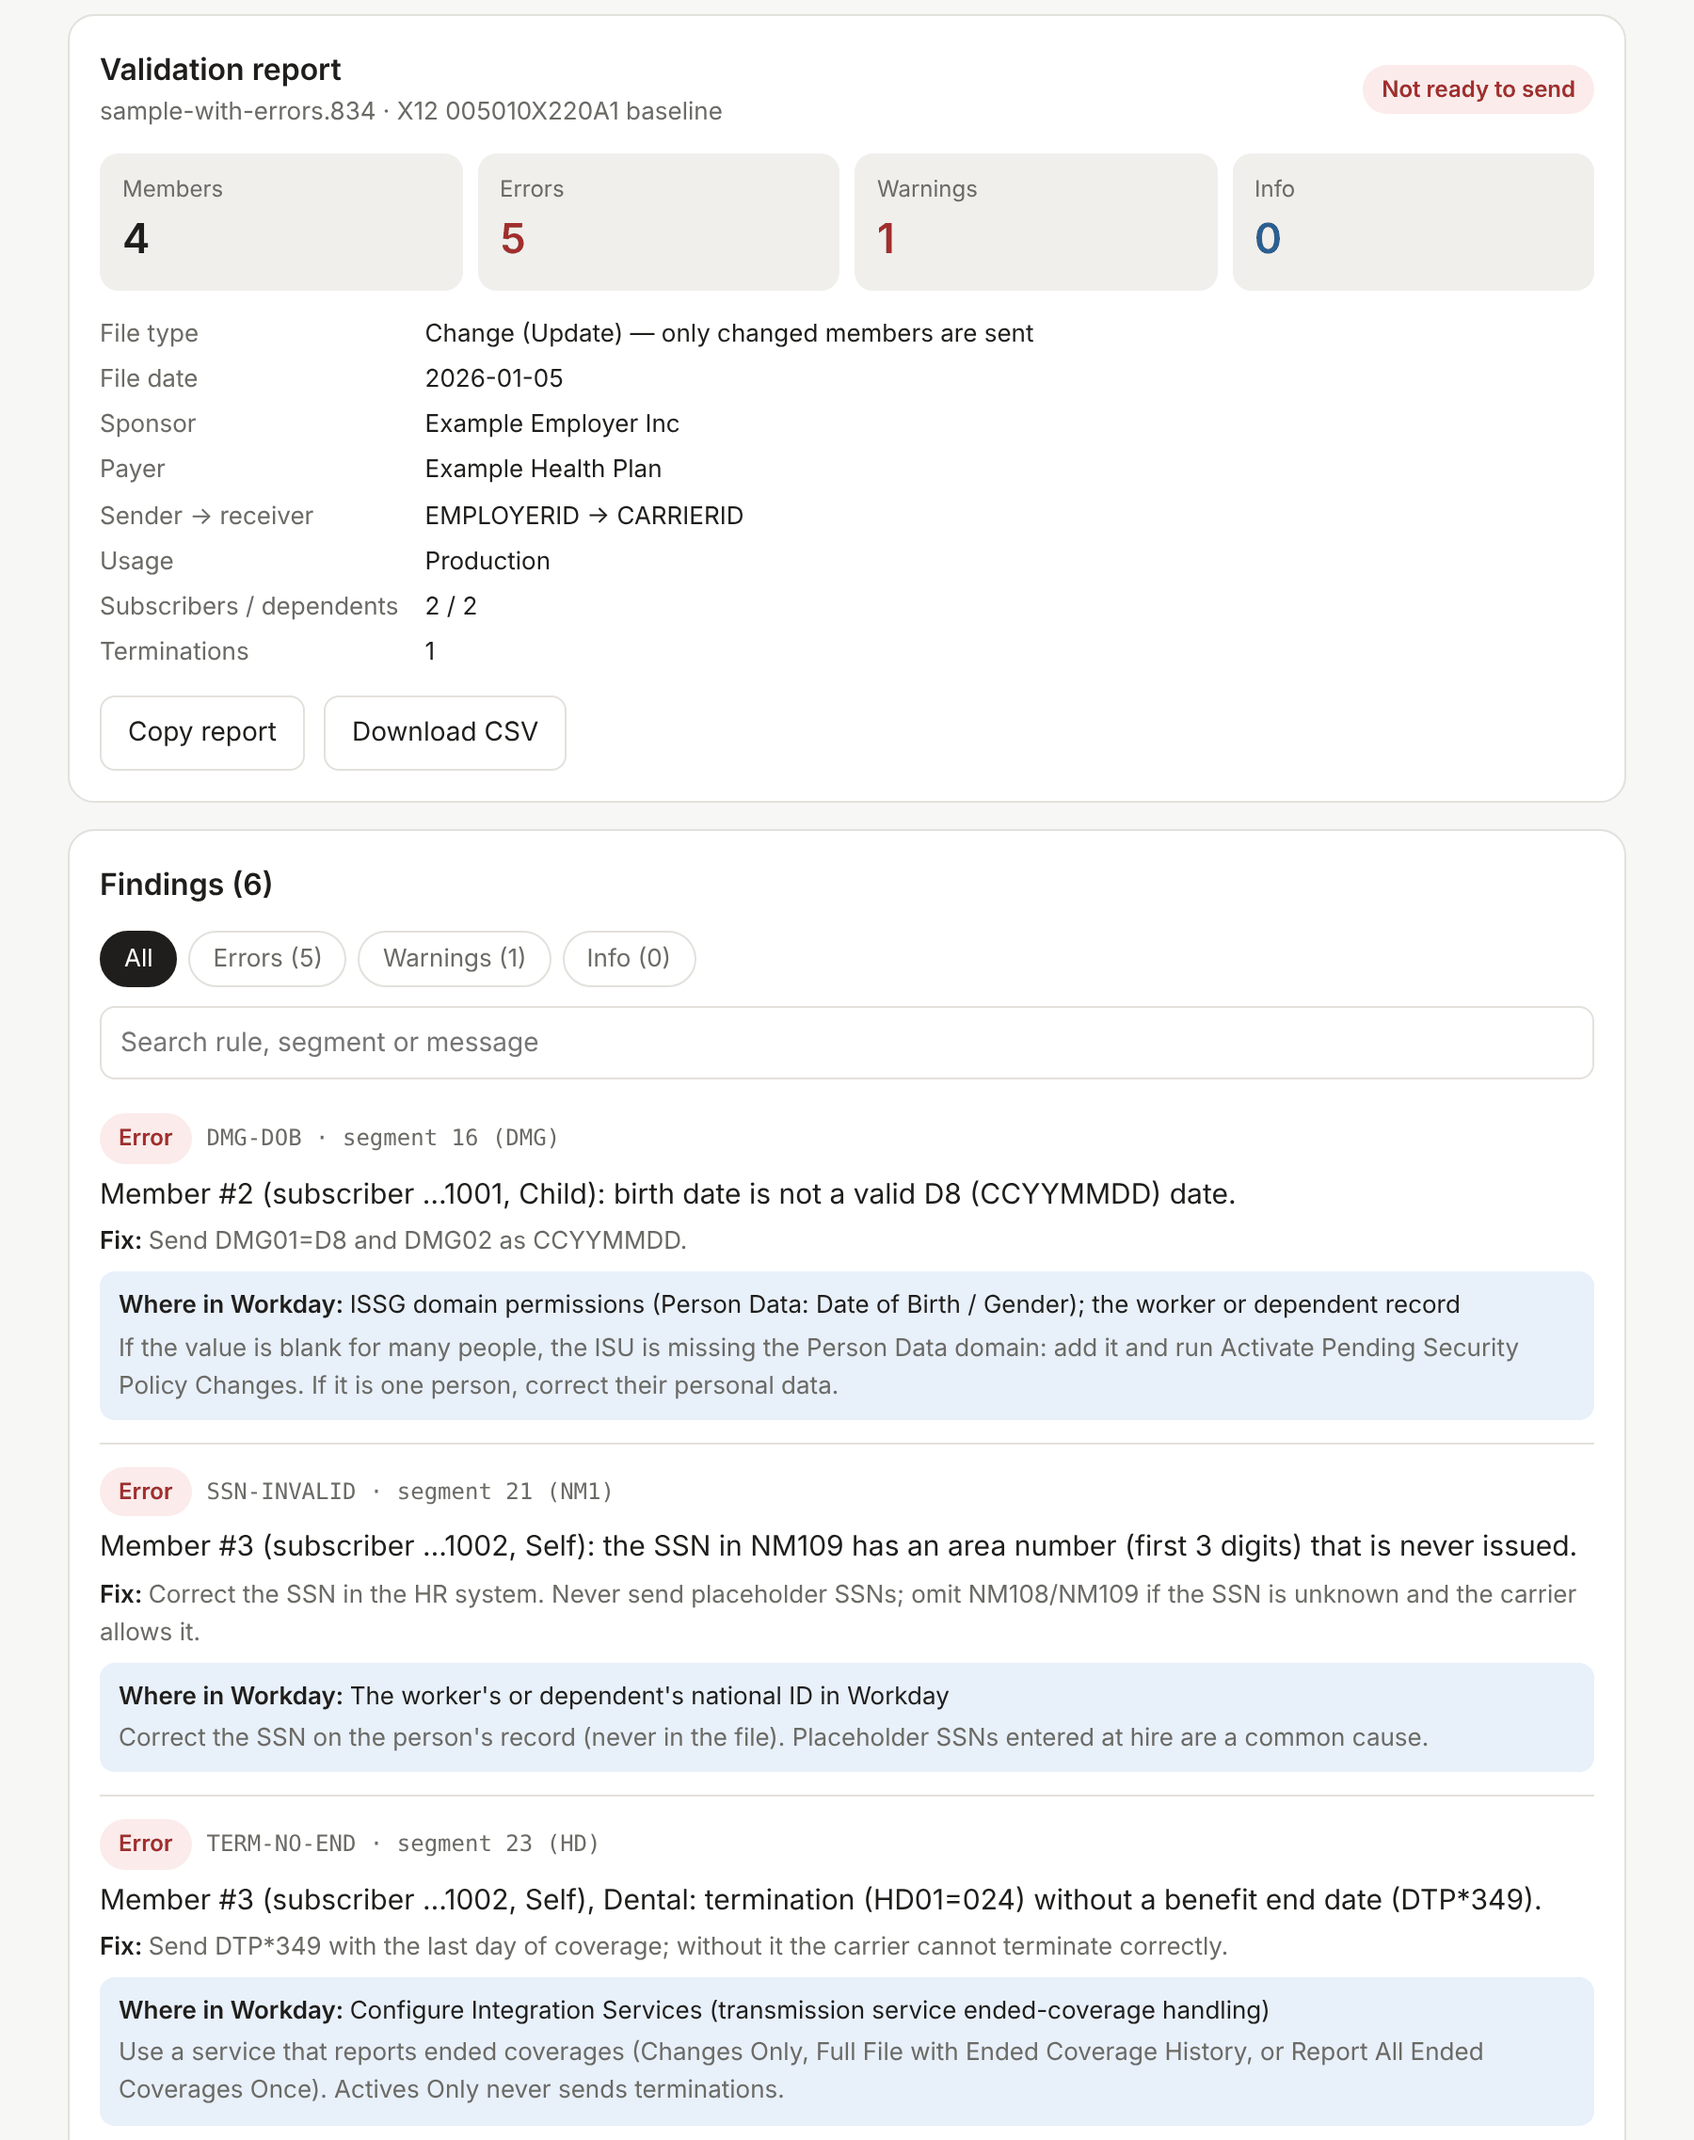
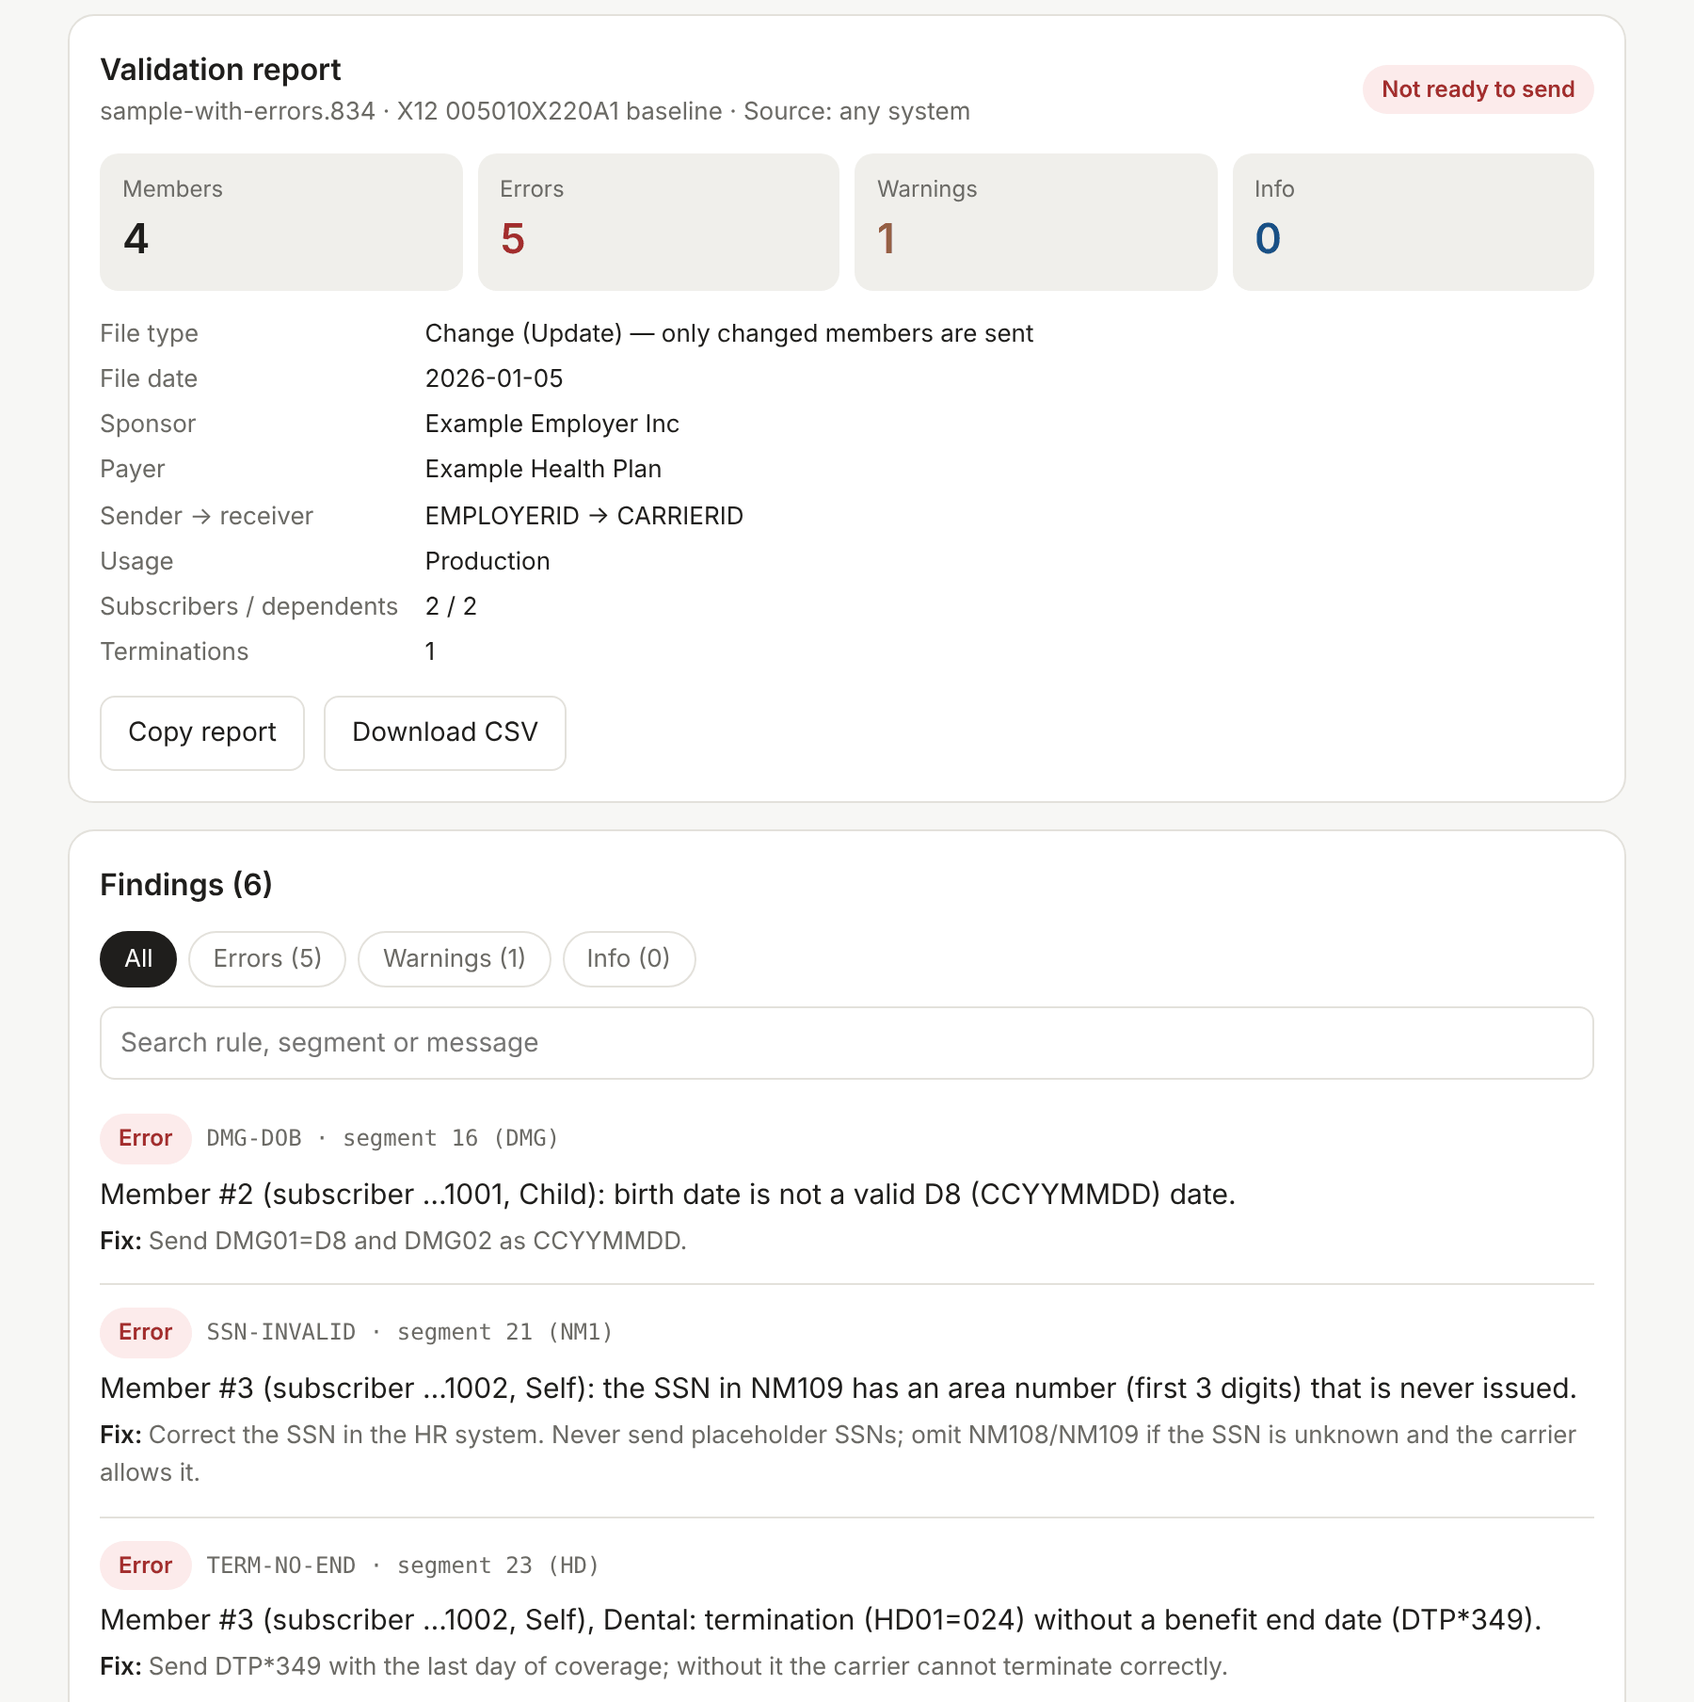
Show source system on the report; use a system-neutral screenshot
The README screenshot was taken in Workday mode, which made the tool
look Workday-only. Retake it in the default mode and say in the report
header and README that any 834 source works.

Claude-Session: https://claude.ai/code/session_01KvczFu2X239GaQXpYazCxk

diff --git a/README.md b/README.md
@@ -42,13 +42,13 @@ The full rule list is in [docs/rules.md](docs/rules.md).
 
 Prefer a screen to a chat? The same validator runs as a web page:
 
-![Validation report in the web UI, with a Workday fix location for each finding](docs/images/validation-report.png)
+![Validation report in the web UI: each finding with its rule, segment and fix](docs/images/validation-report.png)
 
 ```bash
 npm run ui          # opens on http://localhost:8834
 ```
 
-Drop in an 834 file to validate it, compare two files, or look up a code. Pick **Workday CCB 834 V2** as the source system to see where in Workday to fix each finding. The page validates files in your browser: the local server only serves the page and never receives your files.
+Drop in an 834 file to validate it, compare two files, or look up a code. It works with 834 files from any system. Pick **Workday CCB 834 V2** as the source system to also see where in Workday to fix each finding. The page validates files in your browser: the local server only serves the page and never receives your files.
 
 To get one self-contained HTML file you can open offline or share with your team:
 
